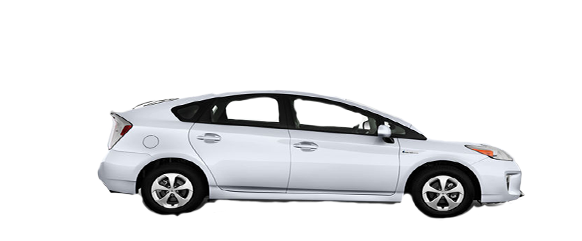
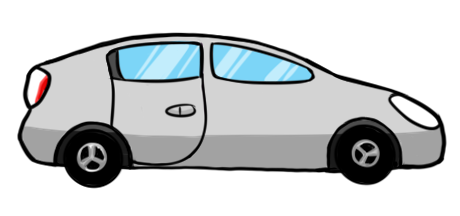
Minor asset adjustment - car is now handdrawn, raft is fixed

diff --git a/Game/js/Intro.js b/Game/js/Intro.js
@@ -64,7 +64,7 @@ Intro.prototype = {
         //treeline0 = this.add.tileSprite(0,250,1800,228,'treeline');
 
 
-        car = game.add.sprite(-300,1090,'car');  
+        car = game.add.sprite(-300,1150,'car');  
         car.scale.setTo(1,1.2);                    //REMOVE WHEN YOU GET PROPER ASSETS
         var backgroundfront = game.add.image(0,0,'backgroundfront');
 

diff --git a/Game/js/Level2GlobalWarm.js b/Game/js/Level2GlobalWarm.js
@@ -64,7 +64,7 @@ Level2GlobalWarm.prototype = {
         ];
         */
         var raft = game.add.image(455, 205, 'raft');
-        raft.scale.setTo(3.8,3.8);
+        // raft.scale.setTo(3.8,3.8);
 
         game.add.image(512, 256, 'crate'),
             game.add.image(640, 256, 'crate'),
